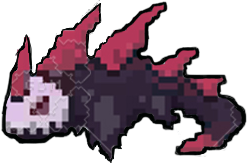
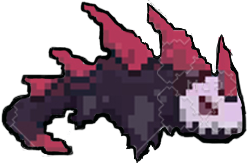
Added Controls Menu + Fixed some issues

diff --git a/code/screens.py b/code/screens.py
@@ -7,25 +7,36 @@ background = pygame.image.load('../maps/background/background.png')
 
 
 def start_screen(screen):
-    start_surf = pygame.Surface((200, 65))
+    screen.blit(background, (0, 0))
+
     text_font = pygame.font.Font('../fonts/edosz.ttf', 50)
 
-    quit_button_text_surf = text_font.render('Quit', False, 'Black')
     start_text_surf = text_font.render('Start', False, 'Black')
+    control_button_text_surf = text_font.render('Controls', False, 'Black')
+    quit_button_text_surf = text_font.render('Quit', False, 'Black')
 
-    quit_surf = pygame.Surface((200, 65))
-    quit_rect = quit_surf.get_rect(center=(SCREEN_WIDTH // 2, SCREEN_HEIGHT // 2 + SCREEN_HEIGHT // 4))
-    quit_surf.fill('white')
-
-    start_surf.fill('white')
+    start_surf = pygame.Surface((250, 80))
+    start_surf.fill('White')
     start_rect = start_surf.get_rect(center=(SCREEN_WIDTH // 2, SCREEN_HEIGHT // 2 - SCREEN_HEIGHT // 4))
+
+    control_surf = pygame.Surface((250, 80))
+    control_rect = control_surf.get_rect(center=(SCREEN_WIDTH // 2, SCREEN_HEIGHT // 2))
+    control_surf.fill('White')
+
+    quit_surf = pygame.Surface((250, 80))
+    quit_rect = quit_surf.get_rect(center=(SCREEN_WIDTH // 2, SCREEN_HEIGHT // 2 + SCREEN_HEIGHT // 4))
+    quit_surf.fill('White')
 
     screen.blit(background, (0, 0))
     screen.blit(start_surf, start_rect)
+    screen.blit(control_surf, control_rect)
     screen.blit(quit_surf, quit_rect)
 
     start_text_rect = start_text_surf.get_rect(center=(SCREEN_WIDTH // 2, SCREEN_HEIGHT // 2 - SCREEN_HEIGHT // 4))
     screen.blit(start_text_surf, start_text_rect)
+
+    control_button_text_rect = control_button_text_surf.get_rect(center=(SCREEN_WIDTH // 2, SCREEN_HEIGHT // 2))
+    screen.blit(control_button_text_surf, control_button_text_rect)
 
     quit_button_text_rect = quit_button_text_surf.get_rect(
         center=(SCREEN_WIDTH // 2, SCREEN_HEIGHT // 2 + SCREEN_HEIGHT // 4))
@@ -41,44 +52,100 @@ def start_screen(screen):
             elif event.type == pygame.MOUSEBUTTONDOWN:
                 if start_rect.collidepoint(event.pos):
                     return 1
+                elif control_rect.collidepoint(event.pos):
+                    return 2
                 elif quit_rect.collidepoint(event.pos):
                     pygame.quit()
                     sys.exit()
 
 
+def controls_menu(screen):
+    screen.blit(background, (0, 0))
+    text_font = pygame.font.Font('../fonts/edosz.ttf', 50)
+
+    controls_text = pygame.font.Font('../fonts/edosz.ttf', 75)
+    controls_text_surf = controls_text.render('Controls:', False, 'Black')
+    controls_text_surf = text_font.render('Controls:', False, 'Black')
+
+    moving_text = pygame.font.Font('../fonts/edosz.ttf', 75)
+    moving_text_surf = moving_text.render('Moving - A S D or Arrow Keys', False, 'Black')
+    moving_text_surf = text_font.render('Moving - A S D or Arrow Keys', False, 'Black')
+
+    jump_text = pygame.font.Font('../fonts/edosz.ttf', 65)
+    jump_text_surf = jump_text.render('Jumping - W, Space or Arrow UP', False, 'Black')
+    jump_text_surf = text_font.render('Jumping - W, Space or Arrow UP', False, 'Black')
+
+    back_button_text = pygame.font.Font('../fonts/edosz.ttf', 75)
+    back_button_text_surf = back_button_text.render('Back', False, 'Black')
+    back_button_text_surf = text_font.render('Back', False, 'Black')
+
+    controls_text_rect = controls_text_surf.get_rect(center=(
+        SCREEN_WIDTH // 2, SCREEN_HEIGHT // 2 - SCREEN_HEIGHT // 4 - SCREEN_HEIGHT // 8))
+    screen.blit(controls_text_surf, controls_text_rect)
+
+    moving_text_rect = moving_text_surf.get_rect(center=(
+        SCREEN_WIDTH // 2, SCREEN_HEIGHT // 2 - SCREEN_HEIGHT // 4 + SCREEN_HEIGHT // 8))
+    screen.blit(moving_text_surf, moving_text_rect)
+
+    jump_text_rect = jump_text_surf.get_rect(center=(
+        SCREEN_WIDTH // 2, SCREEN_HEIGHT // 2))
+    screen.blit(jump_text_surf, jump_text_rect)
+
+    back_surf = pygame.Surface((200, 65))
+    back_rect = back_surf.get_rect(center=(
+        SCREEN_WIDTH // 2 - SCREEN_WIDTH // 4, SCREEN_HEIGHT // 2 + SCREEN_HEIGHT // 4 + SCREEN_HEIGHT // 8))
+    back_surf.fill('White')
+    screen.blit(back_surf, back_rect)
+
+    back_button_text_rect = back_button_text_surf.get_rect(center=(
+        SCREEN_WIDTH // 2 - SCREEN_WIDTH // 4, SCREEN_HEIGHT // 2 + SCREEN_HEIGHT // 4 + SCREEN_HEIGHT // 8))
+    screen.blit(back_button_text_surf, back_button_text_rect)
+
+    ret_2 = 2
+    mouse_pos = pygame.mouse.get_pos()
+    if back_rect.collidepoint(mouse_pos):
+        if pygame.mouse.get_pressed()[0]:
+            ret_2 = 0
+
+    pygame.display.update()
+
+    return ret_2
+
+
 def death_screen(screen, score):
+
     text_font = pygame.font.Font('../fonts/edosz.ttf', 50)
     background_surf_2 = pygame.surface.Surface((SCREEN_WIDTH, SCREEN_HEIGHT))
     background_surf_2.fill('black')
     screen.blit(background_surf_2, (0, 0))
 
-    score_text_surf = text_font.render(f'Score: {score}', False, 'white')
+    score_text_surf = text_font.render(f'Score: {score}', False, 'White')
     score_text_rect = score_text_surf.get_rect(center=(
         SCREEN_WIDTH // 2 - SCREEN_WIDTH // 4, SCREEN_HEIGHT // 2))
     screen.blit(score_text_surf, score_text_rect)
 
-    end_screen_text_surf = text_font.render('You DIED', False, 'red')
+    end_screen_text_surf = text_font.render('You DIED', False, 'Red')
     end_screen_text_rect = end_screen_text_surf.get_rect(center=(
         SCREEN_WIDTH // 2, SCREEN_HEIGHT // 2 - SCREEN_HEIGHT // 4))
     screen.blit(end_screen_text_surf, end_screen_text_rect)
 
     menubutton_surf = pygame.Surface((250, 100))
-    menubutton_surf.fill('white')
+    menubutton_surf.fill('White')
     menubutton_rect = menubutton_surf.get_rect(center=(
         SCREEN_WIDTH // 2 + SCREEN_WIDTH // 4, SCREEN_HEIGHT // 2 + SCREEN_HEIGHT // 4))
     screen.blit(menubutton_surf, menubutton_rect)
 
     res_button_surf = pygame.Surface((250, 100))
-    res_button_surf.fill('white')
+    res_button_surf.fill('White')
     res_button_rect = res_button_surf.get_rect(center=(SCREEN_WIDTH // 2 + SCREEN_WIDTH // 4, SCREEN_HEIGHT // 2))
     screen.blit(res_button_surf, res_button_rect)
 
-    end_menu_text_surf = text_font.render('Main Menu', False, 'black')
+    end_menu_text_surf = text_font.render('Main Menu', False, 'Black')
     end_menu_text_rect = end_menu_text_surf.get_rect(center=(
         SCREEN_WIDTH // 2 + SCREEN_WIDTH // 4, SCREEN_HEIGHT // 2 + SCREEN_HEIGHT // 4))
     screen.blit(end_menu_text_surf, end_menu_text_rect)
 
-    end_res_text_surf = text_font.render('Restart', False, 'black')
+    end_res_text_surf = text_font.render('Restart', False, 'Black')
     end_res_text_rect = end_res_text_surf.get_rect(center=(
         SCREEN_WIDTH // 2 + SCREEN_WIDTH // 4, SCREEN_HEIGHT // 2))
     screen.blit(end_res_text_surf, end_res_text_rect)

diff --git a/code/main.py b/code/main.py
@@ -5,7 +5,7 @@ from constants import *
 from player import Player
 from platforms import Platform
 from enemy import Enemy
-from screens import start_screen, death_screen
+from screens import start_screen, controls_menu, death_screen
 
 pygame.init()
 screen = pygame.display.set_mode((SCREEN_WIDTH, SCREEN_HEIGHT))
@@ -17,14 +17,14 @@ all_sprites = pygame.sprite.Group()
 platforms = pygame.sprite.Group()
 enemies = pygame.sprite.Group()
 
-str_platform = Platform(SCREEN_WIDTH // 2 - (1.2 * PLAYER_WIDTH), SCREEN_HEIGHT // 2, "start")
-platforms.add(str_platform)
-all_sprites.add(str_platform)
+start_platform = Platform(SCREEN_WIDTH // 2 - (1.2 * PLAYER_WIDTH), SCREEN_HEIGHT // 2, "start")
+platforms.add(start_platform)
+all_sprites.add(start_platform)
 
 reg_platforms = {
     Platform((SCREEN_WIDTH - 600), (SCREEN_HEIGHT - 500), "normal"),
-    Platform((SCREEN_WIDTH - 1400), (SCREEN_HEIGHT - 700), "normal"),
-    Platform((SCREEN_WIDTH - 1700), (SCREEN_HEIGHT - 900), "normal"),
+    Platform((SCREEN_WIDTH - 1400), (SCREEN_HEIGHT - 750), "normal"),
+    Platform((SCREEN_WIDTH - 800), (SCREEN_HEIGHT - 850), "normal"),
     Platform((SCREEN_WIDTH - 1600), (SCREEN_HEIGHT - 400), "normal"),
     Platform((SCREEN_WIDTH - 900), (SCREEN_HEIGHT - 300), "normal")
 }
@@ -49,6 +49,20 @@ points = 0
 while running:
     if game_active == 0:
         game_active = start_screen(screen)
+        player = Player()
+        all_sprites = pygame.sprite.Group()
+        platforms = pygame.sprite.Group()
+        enemies = pygame.sprite.Group()
+        platforms.add(start_platform)
+        all_sprites.add(start_platform)
+        platforms.add(reg_platforms)
+        all_sprites.add(reg_platforms)
+        platform_enemies = {}
+        for platform in platforms:
+            platform_enemies[platform] = pygame.sprite.Group()  # reinitialize the platform_enemies dictionary
+            platform.enemy_sprites = platform_enemies[platform]
+        points = 0
+        last_enemy_spawn = pygame.time.get_ticks()
 
     for event in pygame.event.get():
         if event.type == pygame.QUIT:
@@ -62,6 +76,11 @@ while running:
             platform = random.choice(list(reg_platforms))
             if platform.can_spawn_enemy():
                 enemy = Enemy(platform)
+
+                while player.rect.colliderect(enemy.rect):
+                    platform = random.choice(list(reg_platforms))
+                    enemy = Enemy(platform)
+
                 enemies.add(enemy)
                 all_sprites.add(enemy)
                 platform_enemies[platform].add(enemy)  # add enemy to sprite group for its platform
@@ -69,6 +88,12 @@ while running:
             last_enemy_spawn = current_time
 
         player.update()
+        player_look = player.look
+        if player_look == 1:
+            player.surf = pygame.transform.flip(player.surf, True, False)
+            player_look = player.look
+            if player_look == 2:
+                player.surf = pygame.transform.flip(player.surf, True, False)
         if player.kill_player() == 3:
             game_active = 3
 
@@ -101,6 +126,9 @@ while running:
             SCREEN_WIDTH // 2 - SCREEN_WIDTH // 4, SCREEN_HEIGHT // 2))
         screen.blit(score_text_surf, score_text_rect)
 
+        mission_text_surf = text_font.render('You need to jump on the enemies to kill them!', False, 'White')
+        mission_text_rect = mission_text_surf.get_rect(center=(SCREEN_WIDTH // 2, SCREEN_HEIGHT - 50))
+
         all_sprites.draw(screen)
 
         for platform in platforms:
@@ -111,6 +139,9 @@ while running:
         pygame.display.flip()
         clock.tick(60)
 
+    elif game_active == 2:
+        game_active = controls_menu(screen)
+
     elif game_active == 3:
         game_active = death_screen(screen, points)
 
@@ -119,8 +150,8 @@ while running:
         all_sprites = pygame.sprite.Group()
         platforms = pygame.sprite.Group()
         enemies = pygame.sprite.Group()
-        platforms.add(str_platform)
-        all_sprites.add(str_platform)
+        platforms.add(start_platform)
+        all_sprites.add(start_platform)
         platforms.add(reg_platforms)
         all_sprites.add(reg_platforms)
         platform_enemies = {}

diff --git a/code/enemy.py b/code/enemy.py
@@ -1,10 +1,12 @@
 import pygame
 
+
 class Enemy(pygame.sprite.Sprite):
     def __init__(self, platform):
         super().__init__()
-        self.image = pygame.transform.scale(
+        self.surf = pygame.transform.scale(
             pygame.image.load('../enemy/enemy_1.png').convert_alpha(), (100, 50))
+        self.image = self.surf
         self.rect = self.image.get_rect()
         self.platform = platform
         self.rect.centerx = platform.rect.centerx
@@ -15,12 +17,14 @@ class Enemy(pygame.sprite.Sprite):
         self.rect.x += self.direction
         if self.rect.right >= self.platform.rect.right or self.rect.left <= self.platform.rect.left:
             self.direction *= -1
+            self.image = pygame.transform.flip(self.image, True, False)  # Flip the image
 
         self.collide_enemies()
 
     def collide_enemies(self):
-        # Check for collisions with other enemies in the same sprite group
         for enemy in self.platform.enemy_sprites:
             if self != enemy and self.rect.colliderect(enemy.rect):
                 self.direction *= -1
+                self.image = pygame.transform.flip(self.image, True, False)
                 enemy.direction *= -1
+                enemy.image = pygame.transform.flip(enemy.image, True, False)

diff --git a/code/player.py b/code/player.py
@@ -47,7 +47,6 @@ class Player(pygame.sprite.Sprite):
         self.rect.y += self.velocity_y
         self.on_ground = False
 
-        # Update the player's sprite with the current animation frame only if moving
         if is_moving:
             self.surf = player_animations()
 

diff --git a/code/platforms.py b/code/platforms.py
@@ -2,6 +2,7 @@ import pygame
 import pygame
 from constants import *
 
+
 class Platform(pygame.sprite.Sprite):
     def __init__(self, x, y, platform_type):
         super().__init__()
